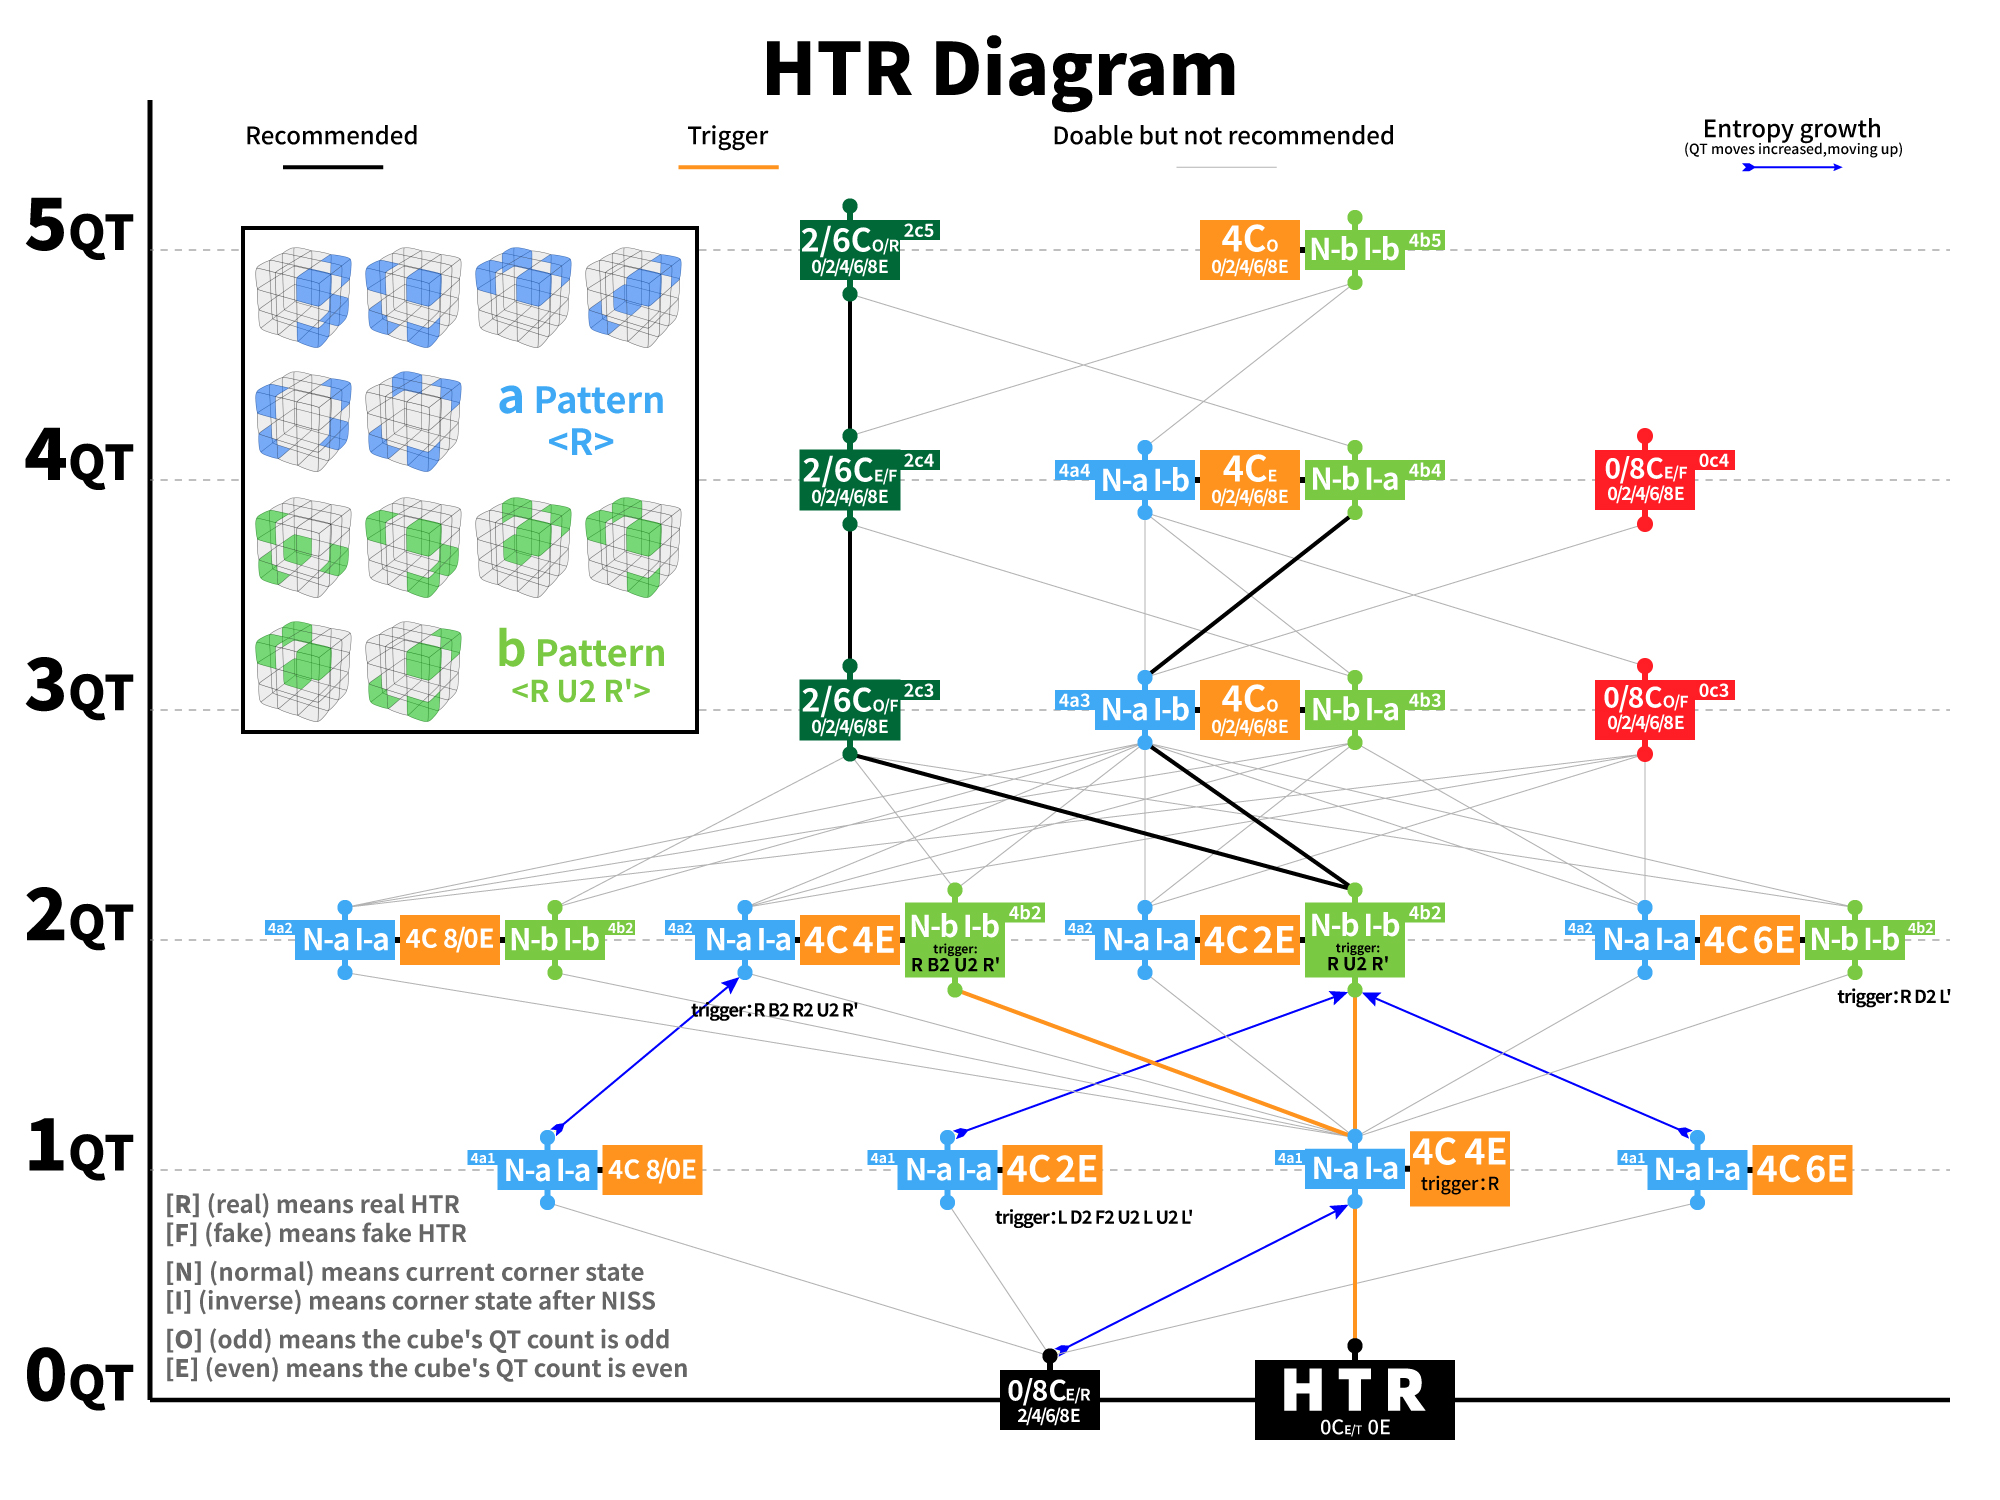
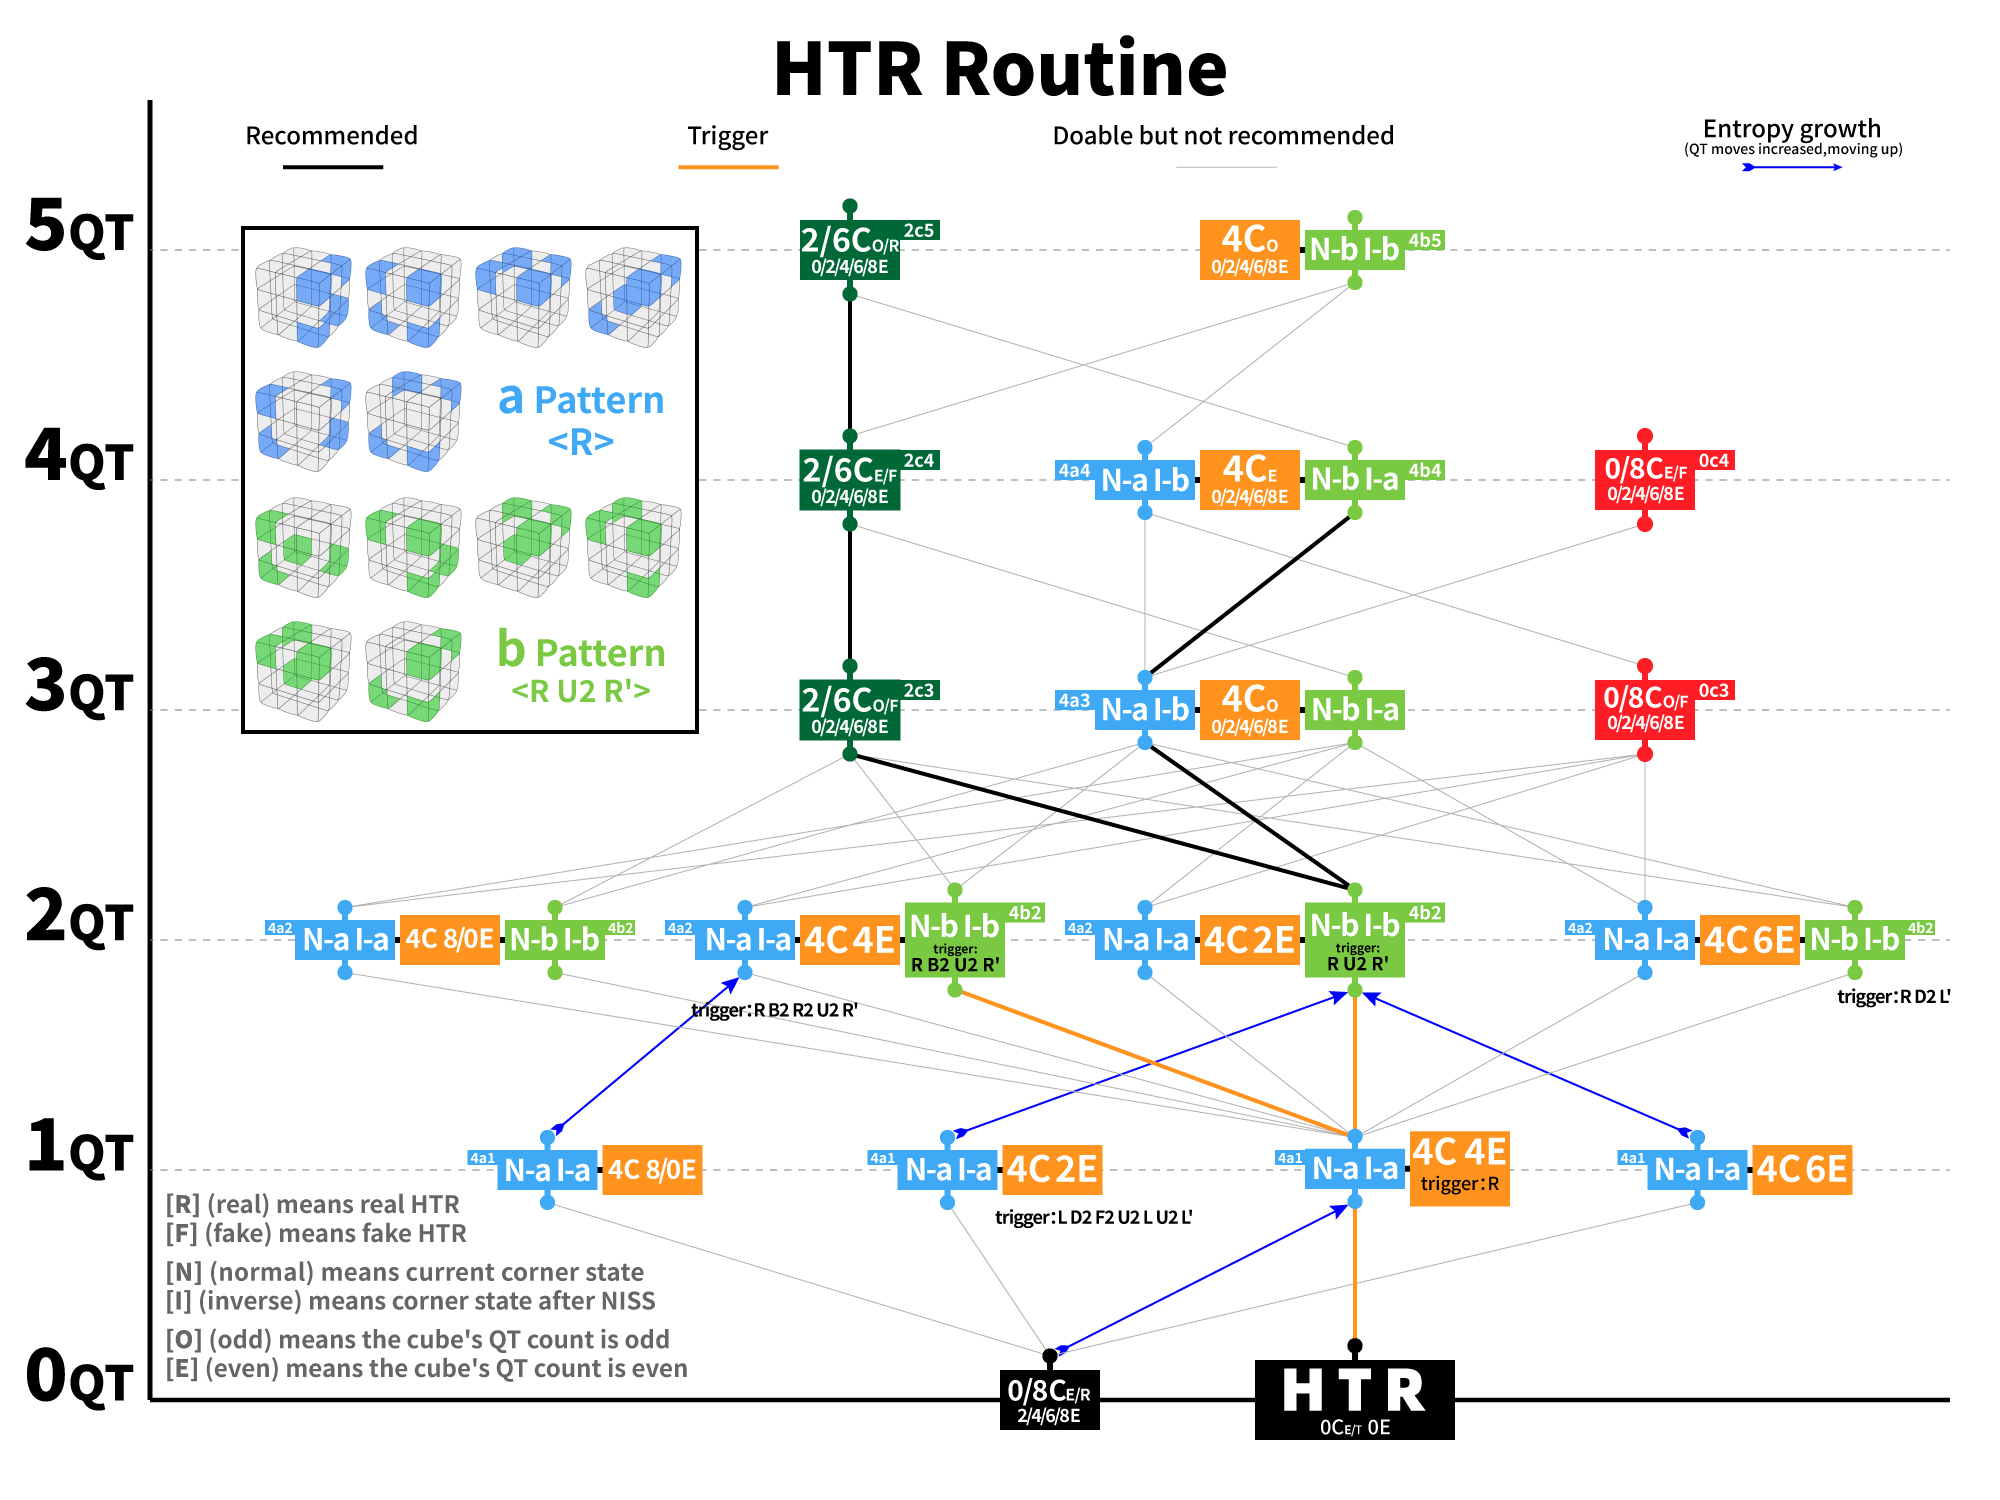
feat: rename htr diagram to routine, add htr maze

Changed region(s): [[0.372, 0.0307, 0.62, 0.092], [0.682, 0.46, 0.744, 0.4907]]

diff --git a/pages/tutorial/htr-diagram.vue b/pages/tutorial/htr-diagram.vue
@@ -12,7 +12,10 @@ useSeoMeta({
     </Heading1>
     <I18nT keypath="tutorial.htrDiagram.description" tag="p">
       <template #author>
-        <a href="https://space.bilibili.com/266974547" target="_blank" class="text-blue-500">{{ $t('tutorial.htrDiagram.author') }}</a>
+        <a href="https://space.bilibili.com/266974547" target="_blank" class="text-blue-500">{{ $t('tutorial.htrDiagram.author.peng') }}</a>
+      </template>
+      <template #picture>
+        {{ $t('tutorial.htrDiagram.picture.routine') }}
       </template>
     </I18nT>
     <a :class="{ hidden: $i18n.locale === 'zh-CN' }" href="/images/htr-diagram/en.jpg" target="_blank">
@@ -20,6 +23,17 @@ useSeoMeta({
     </a>
     <a :class="{ hidden: $i18n.locale === 'en' }" href="/images/htr-diagram/zh-CN.jpg" target="_blank">
       <img src="/images/htr-diagram/zh-CN.jpg" class="w-full">
+    </a>
+    <I18nT keypath="tutorial.htrDiagram.description" tag="p" class="mt-4">
+      <template #author>
+        <a href="https://space.bilibili.com/266974547" target="_blank" class="text-blue-500">{{ $t('tutorial.htrDiagram.author.jian') }}</a>
+      </template>
+      <template #picture>
+        {{ $t('tutorial.htrDiagram.picture.maze') }}
+      </template>
+    </I18nT>
+    <a href="/images/htr-diagram/maze.jpg" target="_blank">
+      <img src="/images/htr-diagram/maze.jpg" class="w-full">
     </a>
   </div>
 </template>

diff --git a/messages/en.ts b/messages/en.ts
@@ -316,9 +316,16 @@ export default {
   tutorial: {
     title: 'Tutorial',
     htrDiagram: {
-      title: 'HTR Diagram',
-      description: 'The amazing HTR Diagram is created by {author}.',
-      author: '2013PENG02',
+      title: 'HTR Routine & Maze',
+      description: 'The amazing HTR {picture} is created by {author}.',
+      author: {
+        peng: '2013PENG02',
+        jian: '2011JIAN07',
+      },
+      picture: {
+        routine: 'Routine',
+        maze: 'Maze',
+      },
     },
   },
   endless: {

diff --git a/messages/zh-CN.ts b/messages/zh-CN.ts
@@ -316,9 +316,16 @@ export default {
   tutorial: {
     title: '教程',
     htrDiagram: {
-      title: 'HTR 迷宫图',
-      description: 'HTR 迷宫图由{author}倾情创作。',
-      author: '天方魔',
+      title: 'HTR 线路图&迷宫图',
+      description: 'HTR {picture}由{author}倾情创作。',
+      author: {
+        peng: '天方魔',
+        jian: '简教',
+      },
+      picture: {
+        routine: '线路图',
+        maze: '迷宫图',
+      },
     },
   },
   endless: {
